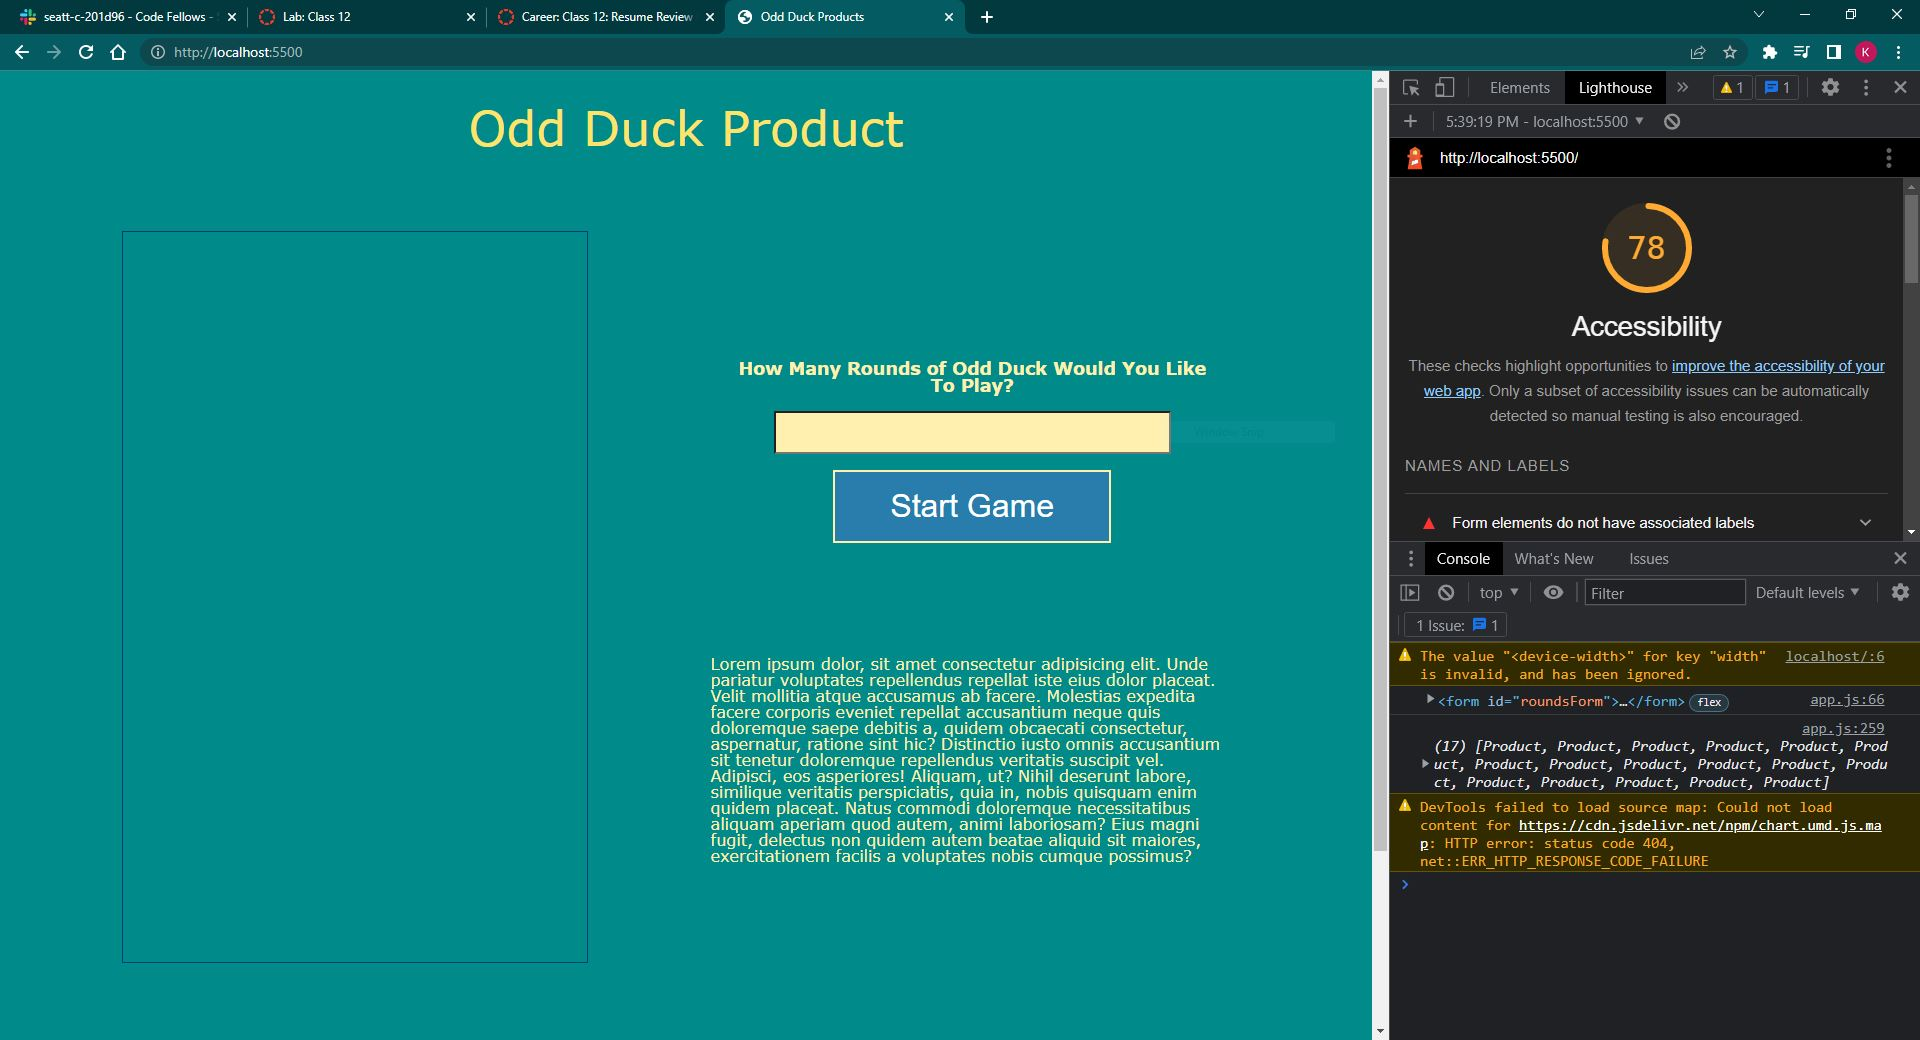
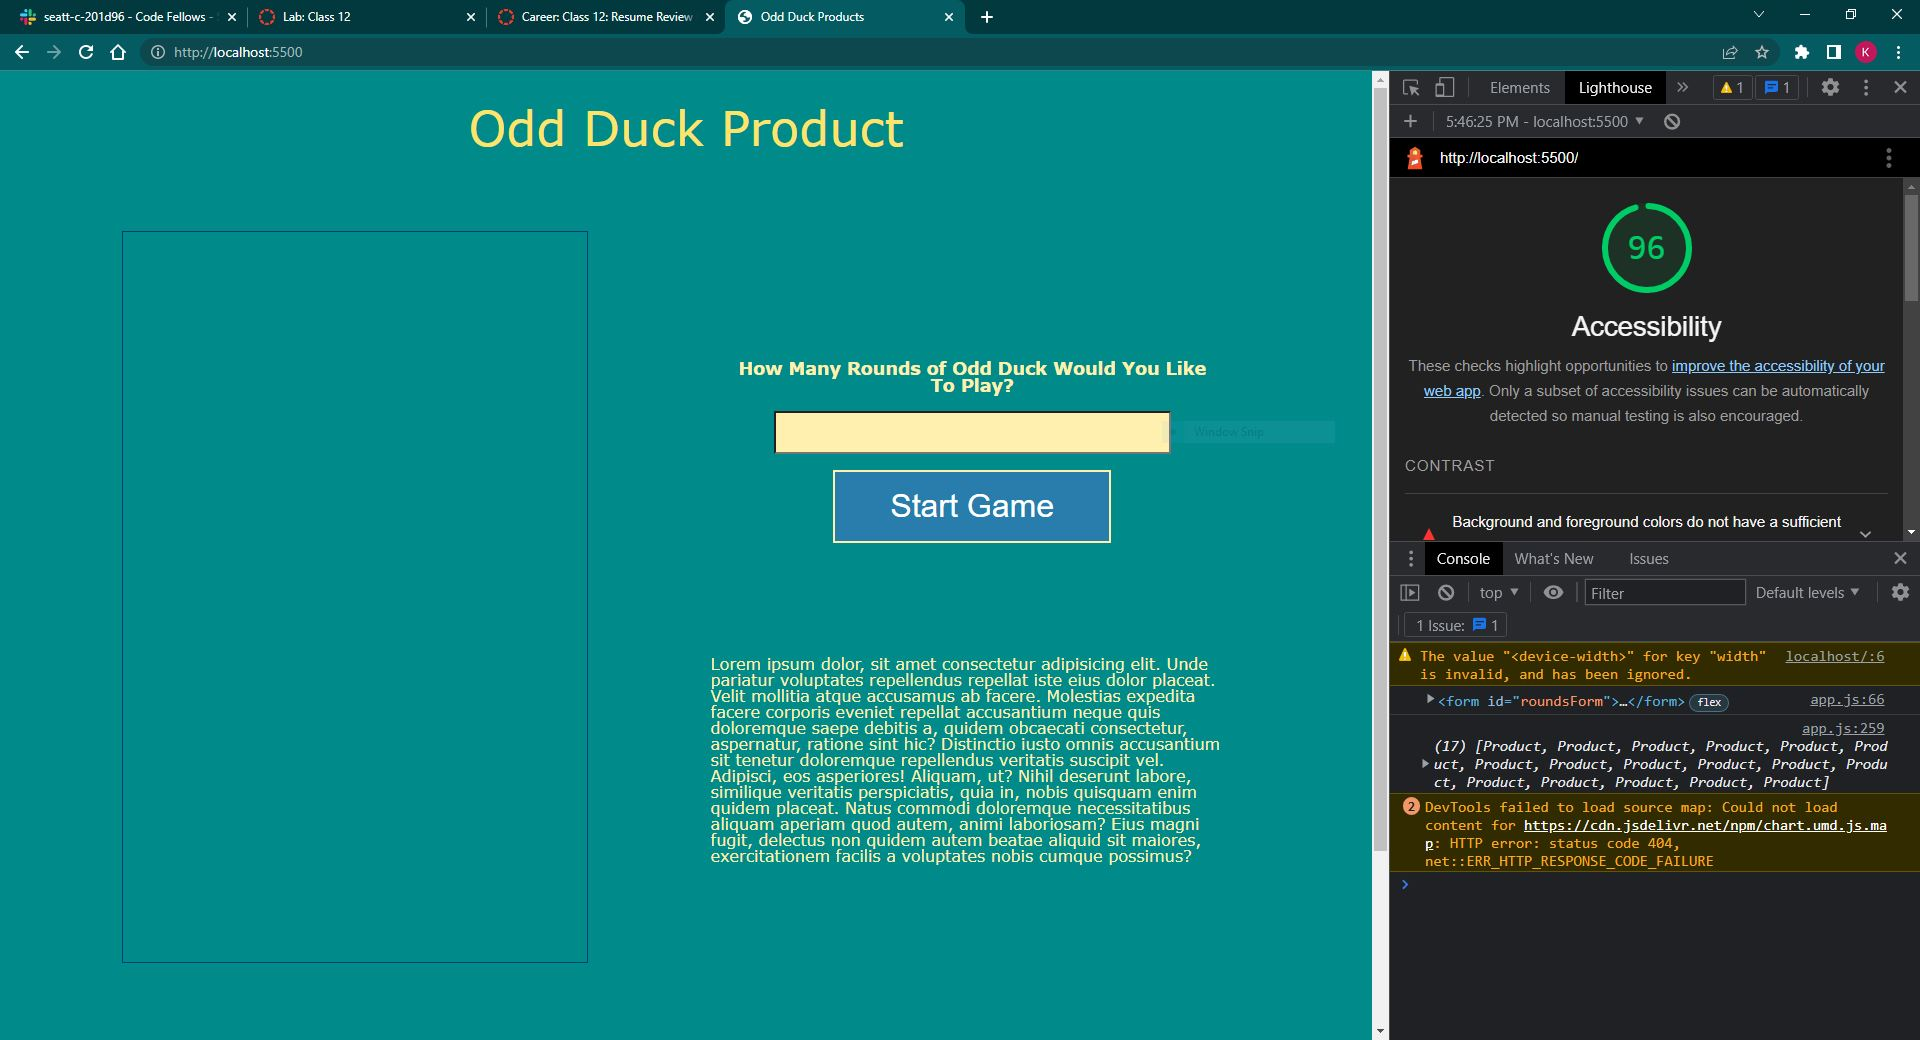
fixed lighthouse score

diff --git a/js/app.js b/js/app.js
@@ -71,7 +71,7 @@ function determineMaxRounds () {
     inputEl.name = 'numberOfRounds';
 
     let labelEl = document.createElement('label');
-    labelEl.for = 'numberOfRounds';
+    labelEl.setAttribute('for', 'numberOfRounds');
     labelEl.innerText = 'How Many Rounds of Odd Duck Would You Like To Play?';
     labelEl.style.textAlign = 'center';
 
